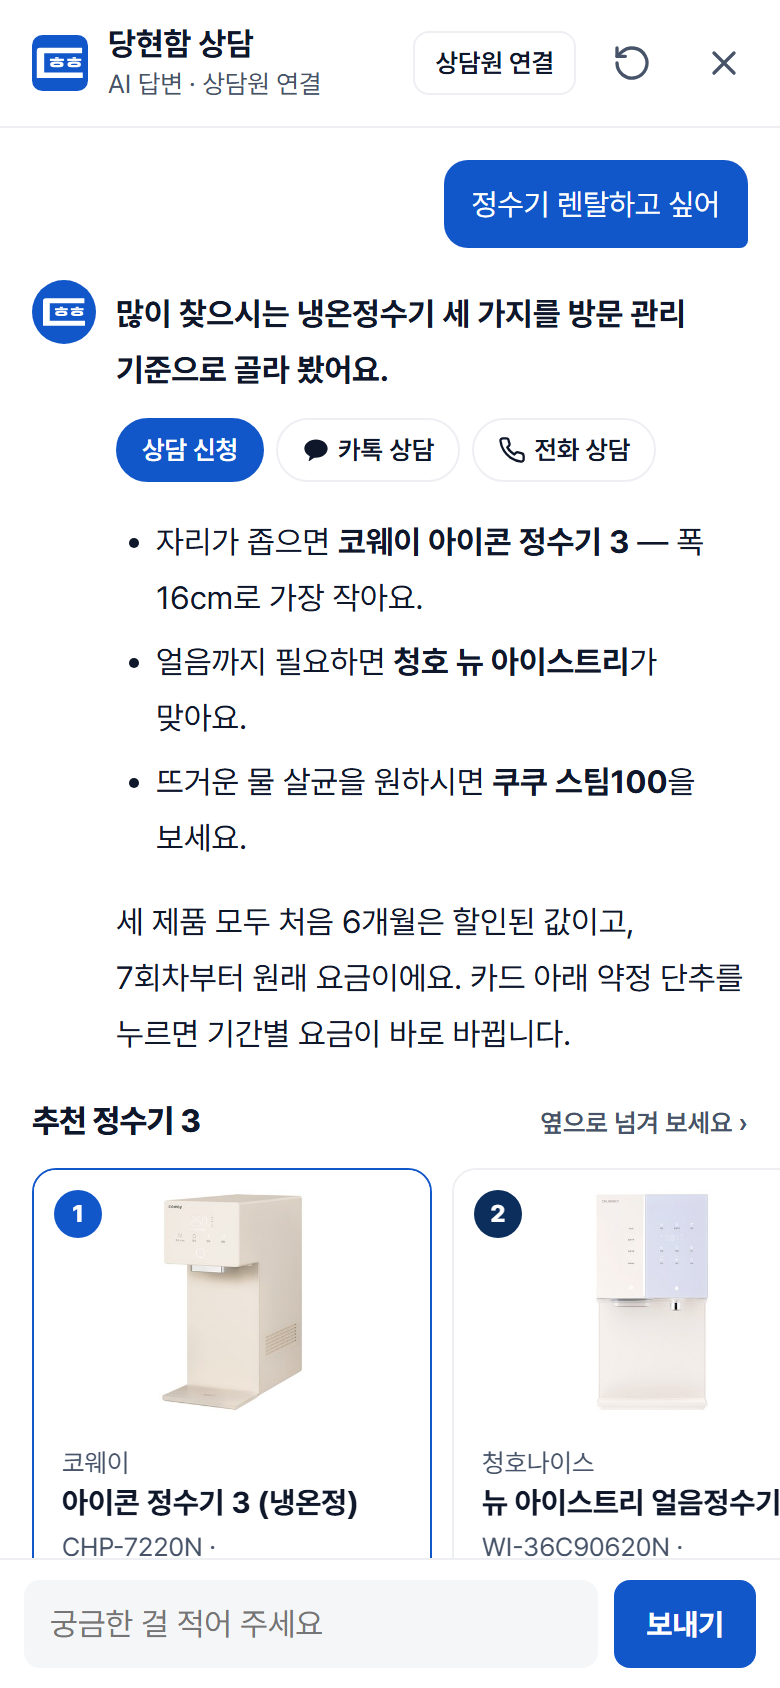
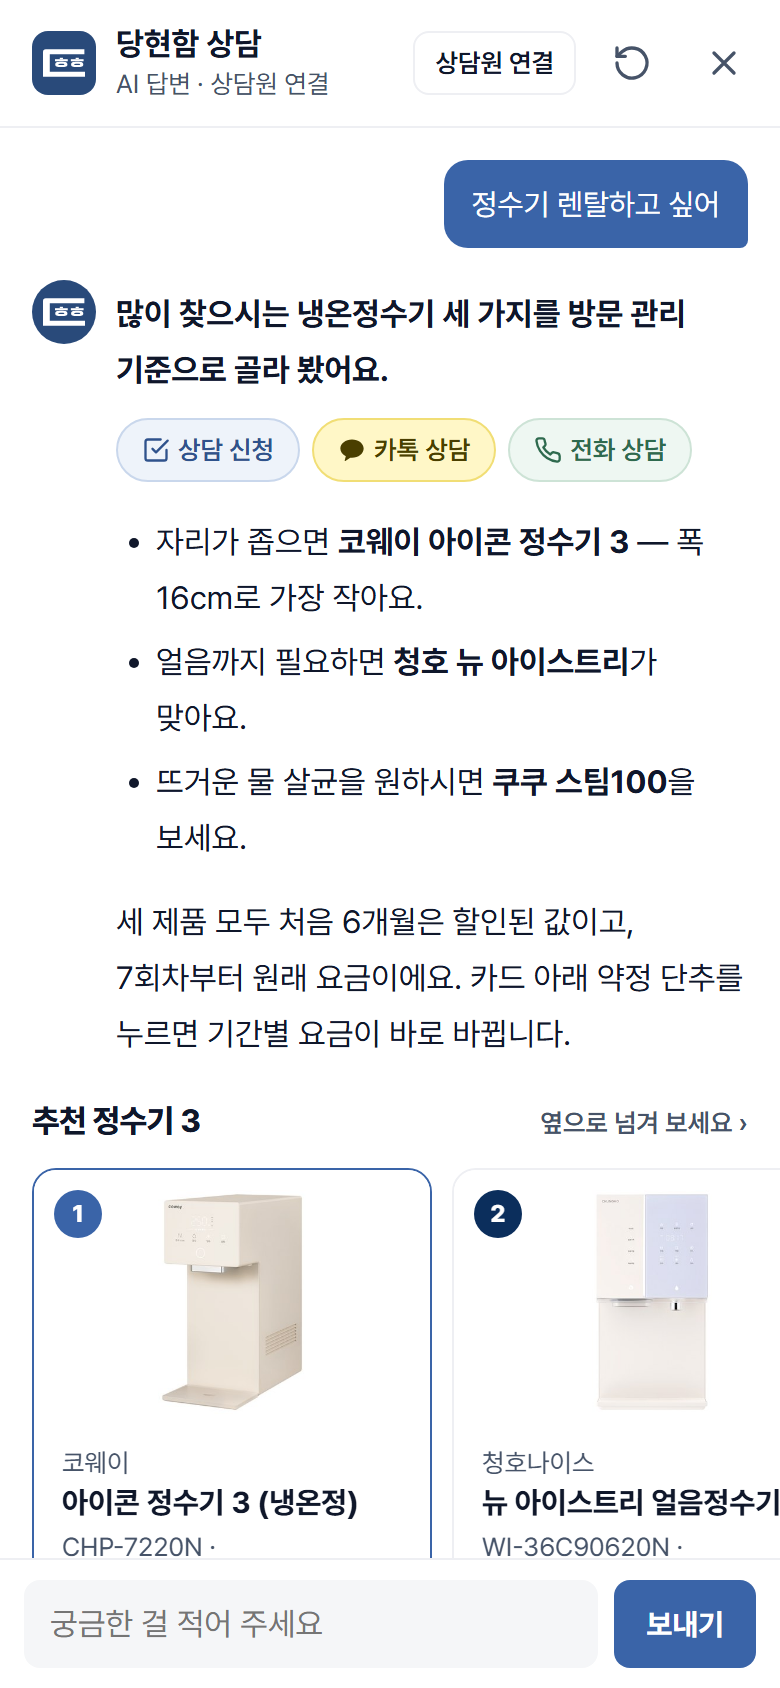
auto: 2026-11-12 15:57:03

diff --git a/시안/ai상담_디자인시안_20261112.html b/시안/ai상담_디자인시안_20261112.html
@@ -66,16 +66,20 @@ body.shot .dhai-panel.sian{width:390px;height:100vh;border:0;border-radius:0;box
 .dhai-foot textarea{flex:1;resize:none;overflow:hidden;height:44px;border:1px solid transparent;border-radius:8px;padding:11px 12px;font-family:inherit;font-size:16px;line-height:1.3;background:var(--dh-gray-100,#F5F6F8);color:var(--c-body,#0F172A)}
 .dhai-send{flex:none;height:44px;border:0;border-radius:8px;padding:0 16px;background:var(--c-strong,#1257C9);color:#fff;font-family:inherit;font-weight:700;font-size:15px;cursor:pointer}
 
+/* ★사장님 11/12 「쨍한 파랑 말고」 — 눈 편한 차분한 파랑으로 이름표만 덮어씀 */
+.dhai-panel{--c-strong:#3A64A8;--c-strong-press:#2F528C;--c-strong-bg:#EEF3FA;--c-face:#294A7A}
 /* ★4. AI 얼굴 — 동그라미 안 당현함 로고, 답 왼쪽 */
 .dhai-row{display:grid;grid-template-columns:32px minmax(0,1fr);gap:10px;align-items:start}
-.dhai-face{width:32px;height:32px;border-radius:50%;background:var(--c-strong,#1257C9);display:flex;align-items:center;justify-content:center;flex:none;position:relative}
+.dhai-face{width:32px;height:32px;border-radius:50%;background:var(--c-face,#294A7A);display:flex;align-items:center;justify-content:center;flex:none;position:relative}
 .dhai-face svg{width:21px;height:21px;display:block}
 .dhai-row .dhai-ai{padding-top:3px}
 
 /* ★1. 답 첫 문장 아래 작은 단추 줄 */
 .dhai-quick{display:flex;flex-wrap:wrap;gap:6px;margin:-4px 0 16px}
 .dhai-quick a,.dhai-quick button{height:32px;display:inline-flex;align-items:center;gap:4px;padding:0 12px;border-radius:999px;font-family:inherit;font-size:13px;font-weight:600;line-height:1;text-decoration:none;cursor:pointer;border:1px solid var(--c-line,#EEEFF3);background:#fff;color:var(--c-body,#0F172A);white-space:nowrap}
-.dhai-quick .ap{border-color:var(--c-strong,#1257C9);background:var(--c-strong,#1257C9);color:#fff}
+.dhai-quick .ap{border-color:#C9D7EC;background:#EEF3FA;color:#2F528C}
+.dhai-quick .kk{border-color:#F1DE75;background:#FFF7C7;color:#4A3F00}
+.dhai-quick .tel{border-color:#CDE3D6;background:#EEF7F2;color:#2E6A4E}
 .dhai-quick svg{width:14px;height:14px;flex:none}
 
 /* ★6. 추천 제목 + 카드 순번 */
@@ -101,7 +105,7 @@ body.shot .dhai-panel.sian{width:390px;height:100vh;border:0;border-radius:0;box
 .dhai-end{display:flex;flex-direction:column;gap:10px;border-top:1px solid var(--c-line,#EEEFF3);padding-top:14px}
 .dhai-act{display:grid;grid-template-columns:1fr 1fr;gap:8px}
 .dhai-act button,.dhai-act a{height:46px;display:flex;align-items:center;justify-content:center;gap:6px;font-family:inherit;font-size:15px;font-weight:700;border-radius:8px;text-decoration:none;cursor:pointer;border:0;padding:0 6px;white-space:nowrap}
-.dhai-act .ap{grid-column:1/-1;height:54px;font-size:16px;background:var(--c-strong,#1257C9);color:#fff;box-shadow:0 4px 12px rgba(18,87,201,.24)}
+.dhai-act .ap{grid-column:1/-1;height:54px;font-size:16px;background:var(--c-strong,#1257C9);color:#fff;box-shadow:0 4px 12px rgba(58,100,168,.22)}
 .dhai-act .ap small{font-size:13px;font-weight:500;opacity:.85}
 .dhai-act .kk{background:var(--c-kakao,#FEE500);color:rgba(0,0,0,.85)}
 .dhai-act .tel{background:#fff;color:var(--c-body,#0F172A);border:1px solid var(--c-line,#EEEFF3)}
@@ -117,15 +121,15 @@ body.shot .dhai-panel.sian{width:390px;height:100vh;border:0;border-radius:0;box
 .dhai-bars i:nth-child(2){animation-delay:.12s}.dhai-bars i:nth-child(3){animation-delay:.24s}.dhai-bars i:nth-child(4){animation-delay:.36s}.dhai-bars i:nth-child(5){animation-delay:.48s}
 @keyframes dhai-wave{0%,100%{transform:scaleY(.35);opacity:.45}50%{transform:scaleY(1);opacity:1}}
 .dhai-shine{margin:0;font-size:16px;font-weight:800;letter-spacing:-.02em;line-height:1.4;color:var(--c-title,#0F172A);
-  background:linear-gradient(90deg,var(--c-title,#0F172A) 0%,var(--c-title,#0F172A) 38%,#5B8DEF 50%,var(--c-title,#0F172A) 62%,var(--c-title,#0F172A) 100%);
+  background:linear-gradient(90deg,var(--c-title,#0F172A) 0%,var(--c-title,#0F172A) 38%,#8FB0E0 50%,var(--c-title,#0F172A) 62%,var(--c-title,#0F172A) 100%);
   background-size:250% 100%;-webkit-background-clip:text;background-clip:text;-webkit-text-fill-color:transparent;animation:dhai-shine 1.6s linear infinite}
 @keyframes dhai-shine{0%{background-position:100% 0}100%{background-position:0 0}}
 .dhai-steps{list-style:none;margin:0;padding:12px 14px;display:flex;flex-direction:column;gap:8px;background:var(--dh-gray-100,#F5F6F8);border-radius:12px}
 .dhai-steps li{display:flex;align-items:center;gap:10px;font-size:15px;line-height:1.5;color:var(--c-sub,#465368);animation:dhai-in .35s ease-out both}
 .dhai-steps li::before{content:'';width:8px;height:8px;border-radius:50%;background:#C9CED6;flex:none}
 .dhai-steps li.now{color:var(--c-title,#0F172A);font-weight:700}
-.dhai-steps li.now::before{background:var(--c-strong,#1257C9);box-shadow:0 0 0 0 rgba(18,87,201,.45);animation:dhai-ping 1.4s ease-out infinite}
-@keyframes dhai-ping{0%{box-shadow:0 0 0 0 rgba(18,87,201,.45)}100%{box-shadow:0 0 0 7px rgba(18,87,201,0)}}
+.dhai-steps li.now::before{background:var(--c-strong,#1257C9);box-shadow:0 0 0 0 rgba(58,100,168,.45);animation:dhai-ping 1.4s ease-out infinite}
+@keyframes dhai-ping{0%{box-shadow:0 0 0 0 rgba(58,100,168,.45)}100%{box-shadow:0 0 0 7px rgba(58,100,168,0)}}
 @keyframes dhai-in{from{opacity:0;transform:translateY(4px)}to{opacity:1;transform:none}}
 .dhai-wait-sub{margin:0;font-size:14px;line-height:1.6;color:var(--c-sub,#465368)}
 /* 움직임 줄이기 설정이면 모두 멈춘 모양으로 */
@@ -155,7 +159,7 @@ body.shot .dhai-panel.sian{width:390px;height:100vh;border:0;border-radius:0;box
   <!-- ───── 화면 1: 답이 온 뒤 ───── -->
   <div class="sian-col" id="col-answer">
     <div class="dhai-panel sian" role="dialog" aria-label="당현함 AI 상담">
-      <div class="dhai-head"><img class="dhai-logo" src="../favicon.svg" alt="" aria-hidden="true">
+      <div class="dhai-head"><span class="dhai-face" aria-hidden="true" style="border-radius:8px"><svg><use href="#dh-mark"/></svg></span>
         <div class="dhai-title"><b>당현함 상담</b><span>AI 답변 · 상담원 연결</span></div>
         <button type="button" class="dhai-agent">상담원 연결</button>
         <button type="button" class="dhai-icon" aria-label="새 대화"><svg viewBox="0 0 24 24" fill="none" stroke="currentColor" stroke-width="2" stroke-linecap="round" stroke-linejoin="round"><path d="M3 12a9 9 0 1 0 3-6.7L3 8"/><path d="M3 3v5h5"/></svg></button>
@@ -169,7 +173,7 @@ body.shot .dhai-panel.sian{width:390px;height:100vh;border:0;border-radius:0;box
           <div class="dhai-ai">
             <p><b>많이 찾으시는 냉온정수기 세 가지를 방문 관리 기준으로 골라 봤어요.</b></p>
             <div class="dhai-quick">
-              <button type="button" class="ap">상담 신청</button>
+              <button type="button" class="ap"><svg><use href="#ic-pen"/></svg>상담 신청</button>
               <a href="#" class="kk"><svg><use href="#ic-talk"/></svg>카톡 상담</a>
               <a href="#" class="tel"><svg><use href="#ic-tel"/></svg>전화 상담</a>
             </div>
@@ -247,7 +251,7 @@ body.shot .dhai-panel.sian{width:390px;height:100vh;border:0;border-radius:0;box
   <!-- ───── 화면 2: 기다리는 동안 ───── -->
   <div class="sian-col" id="col-wait">
     <div class="dhai-panel sian" role="dialog" aria-label="당현함 AI 상담">
-      <div class="dhai-head"><img class="dhai-logo" src="../favicon.svg" alt="" aria-hidden="true">
+      <div class="dhai-head"><span class="dhai-face" aria-hidden="true" style="border-radius:8px"><svg><use href="#dh-mark"/></svg></span>
         <div class="dhai-title"><b>당현함 상담</b><span>AI 답변 · 상담원 연결</span></div>
         <button type="button" class="dhai-agent">상담원 연결</button>
         <button type="button" class="dhai-icon" aria-label="새 대화"><svg viewBox="0 0 24 24" fill="none" stroke="currentColor" stroke-width="2" stroke-linecap="round" stroke-linejoin="round"><path d="M3 12a9 9 0 1 0 3-6.7L3 8"/><path d="M3 3v5h5"/></svg></button>
